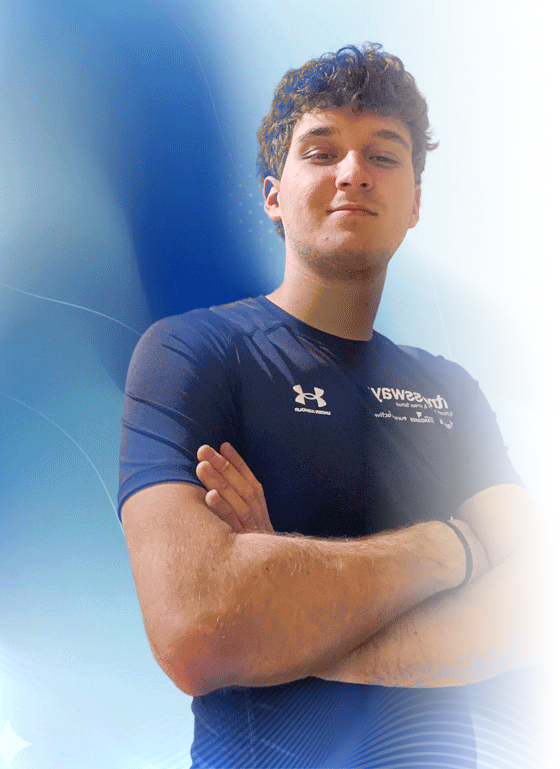
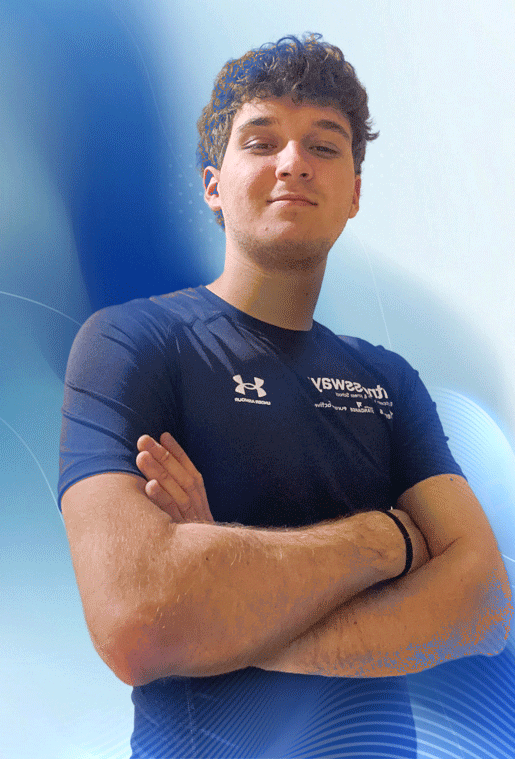
Center the hero photo in a framed card, drop the tennis/padel line
Show Andrea's photo as a centered, tightly-cropped rectangular frame
inside the hero card instead of a full-bleed feathered blend, so the
site's own designed background (gradient + wave graphic) stays visible
around it. Also removes the "mainly tennis and padel" clause from the
hero copy (IT/EN).

diff --git a/website/lib/dictionary.ts b/website/lib/dictionary.ts
@@ -17,7 +17,7 @@ export const dictionary = {
       titleAccent: "alza il livello",
       titleRest: "del gioco.",
       body:
-        "Sono Andrea Scirè: costruisco programmi di forza e condizionamento su misura e affianco atleti — soprattutto di tennis e padel — con massaggio sportivo certificato, a Ficarazzi (PA) e online in tutta Italia.",
+        "Sono Andrea Scirè: costruisco programmi di forza e condizionamento su misura e affianco atleti con massaggio sportivo certificato, a Ficarazzi (PA) e online in tutta Italia.",
       ctaPrimary: "Scrivimi su WhatsApp",
       ctaSecondary: "Guarda i servizi",
       badge: "Certificato Istituto ATS",
@@ -143,7 +143,7 @@ export const dictionary = {
       titleAccent: "raise your level",
       titleRest: "of play.",
       body:
-        "I'm Andrea Scirè: I build tailor-made strength and conditioning programs and support athletes — mainly tennis and padel players — with certified sports massage, based in Ficarazzi (PA), Italy, and online worldwide.",
+        "I'm Andrea Scirè: I build tailor-made strength and conditioning programs and support athletes with certified sports massage, based in Ficarazzi (PA), Italy, and online worldwide.",
       ctaPrimary: "Message on WhatsApp",
       ctaSecondary: "See the services",
       badge: "Certified by Istituto ATS",

diff --git a/website/app/page.module.css b/website/app/page.module.css
@@ -73,9 +73,6 @@
   background: linear-gradient(150deg, var(--navy) 0%, var(--blue-deep) 55%, var(--blue) 100%);
   aspect-ratio: 4 / 5;
   box-shadow: var(--shadow);
-  display: flex;
-  align-items: flex-end;
-  padding: 28px;
   overflow: hidden;
 }
 
@@ -87,24 +84,35 @@
   opacity: 0.5;
 }
 
-.photoImg {
+.photoFrame {
   position: absolute;
-  inset: 0;
-  width: 100%;
-  height: 100%;
+  left: 50%;
+  top: 22px;
+  transform: translateX(-50%);
+  width: 74%;
+  aspect-ratio: 515 / 759;
+  border-radius: 20px;
+  overflow: hidden;
+  box-shadow: 0 24px 48px -16px rgba(0, 0, 0, 0.45);
+  border: 3px solid rgba(255, 255, 255, 0.28);
+}
+
+.photoImg {
   object-fit: cover;
   object-position: top center;
 }
 
 .photoBadge {
-  position: relative;
+  position: absolute;
+  left: 28px;
+  right: 28px;
+  bottom: 28px;
   background: rgba(5, 11, 36, 0.55);
   backdrop-filter: blur(6px);
   border: 1px solid rgba(255, 255, 255, 0.2);
   border-radius: 16px;
   padding: 16px 20px;
   color: var(--white);
-  width: 100%;
 }
 
 .photoBadge strong {

diff --git a/website/app/HomeView.tsx b/website/app/HomeView.tsx
@@ -52,14 +52,16 @@ export default function Home() {
                 <circle cx="320" cy="90" r="160" fill="url(#wave)" />
                 <circle cx="60" cy="420" r="120" fill="url(#wave)" />
               </svg>
-              <Image
-                src="/images/andrea-hero.png"
-                alt={site.name}
-                fill
-                priority
-                sizes="(max-width: 900px) 100vw, 480px"
-                className={styles.photoImg}
-              />
+              <div className={styles.photoFrame}>
+                <Image
+                  src="/images/andrea-hero.png"
+                  alt={site.name}
+                  fill
+                  priority
+                  sizes="(max-width: 900px) 60vw, 360px"
+                  className={styles.photoImg}
+                />
+              </div>
               <div className={styles.photoBadge}>
                 <strong>{site.name}</strong>
                 <span>{site.tagline}</span>
